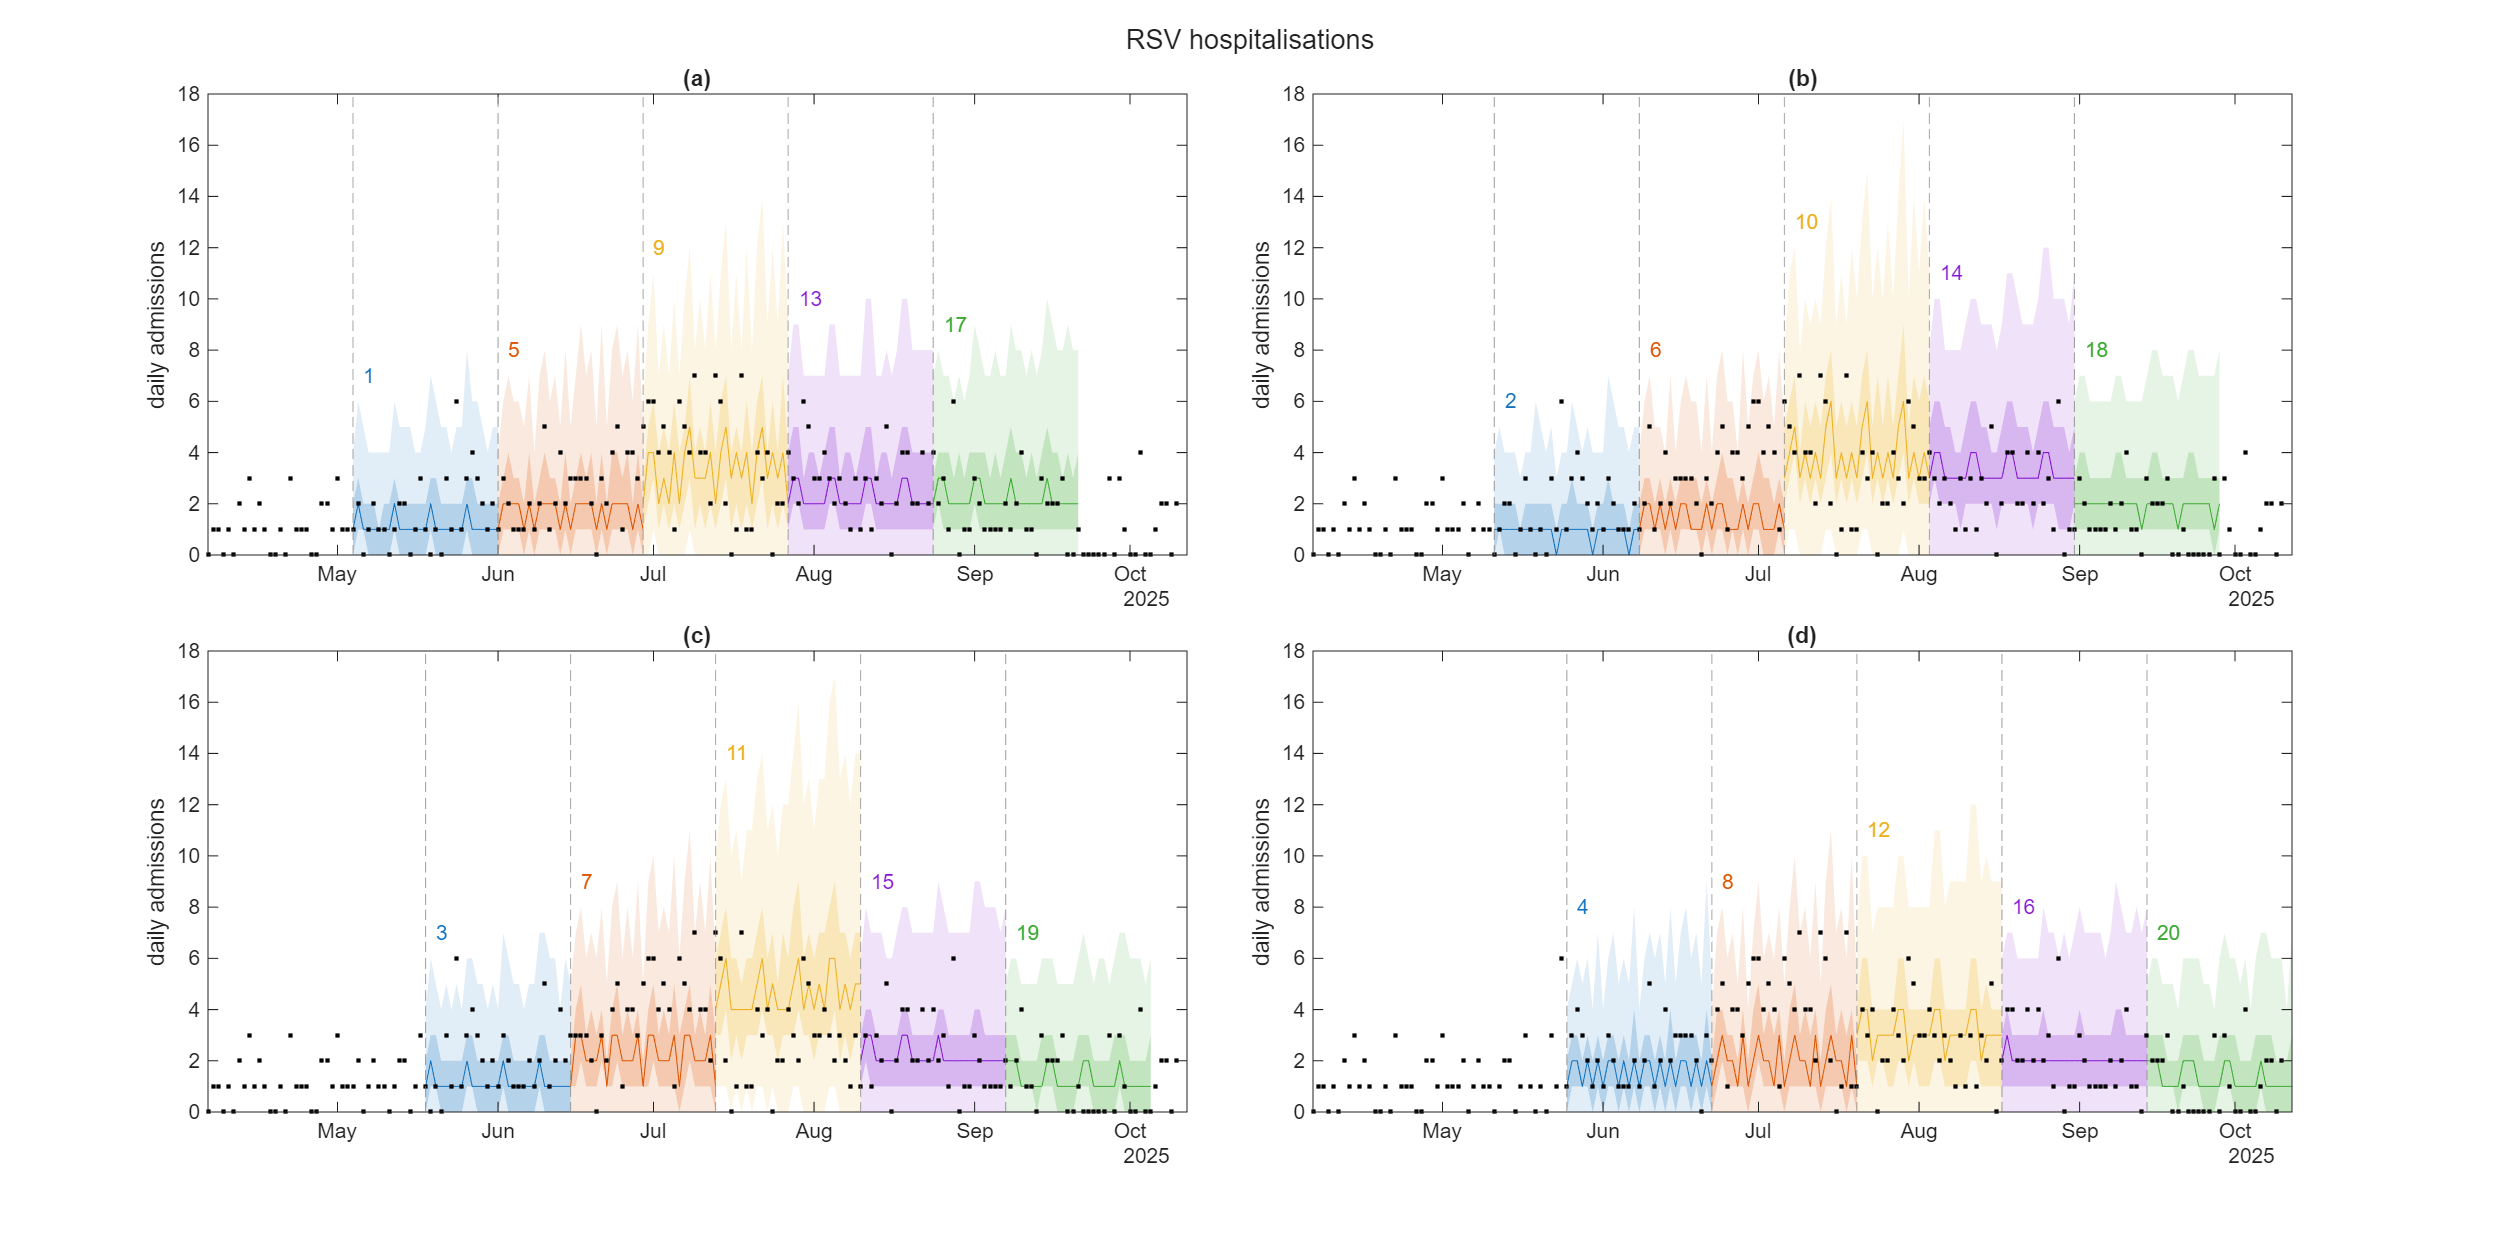
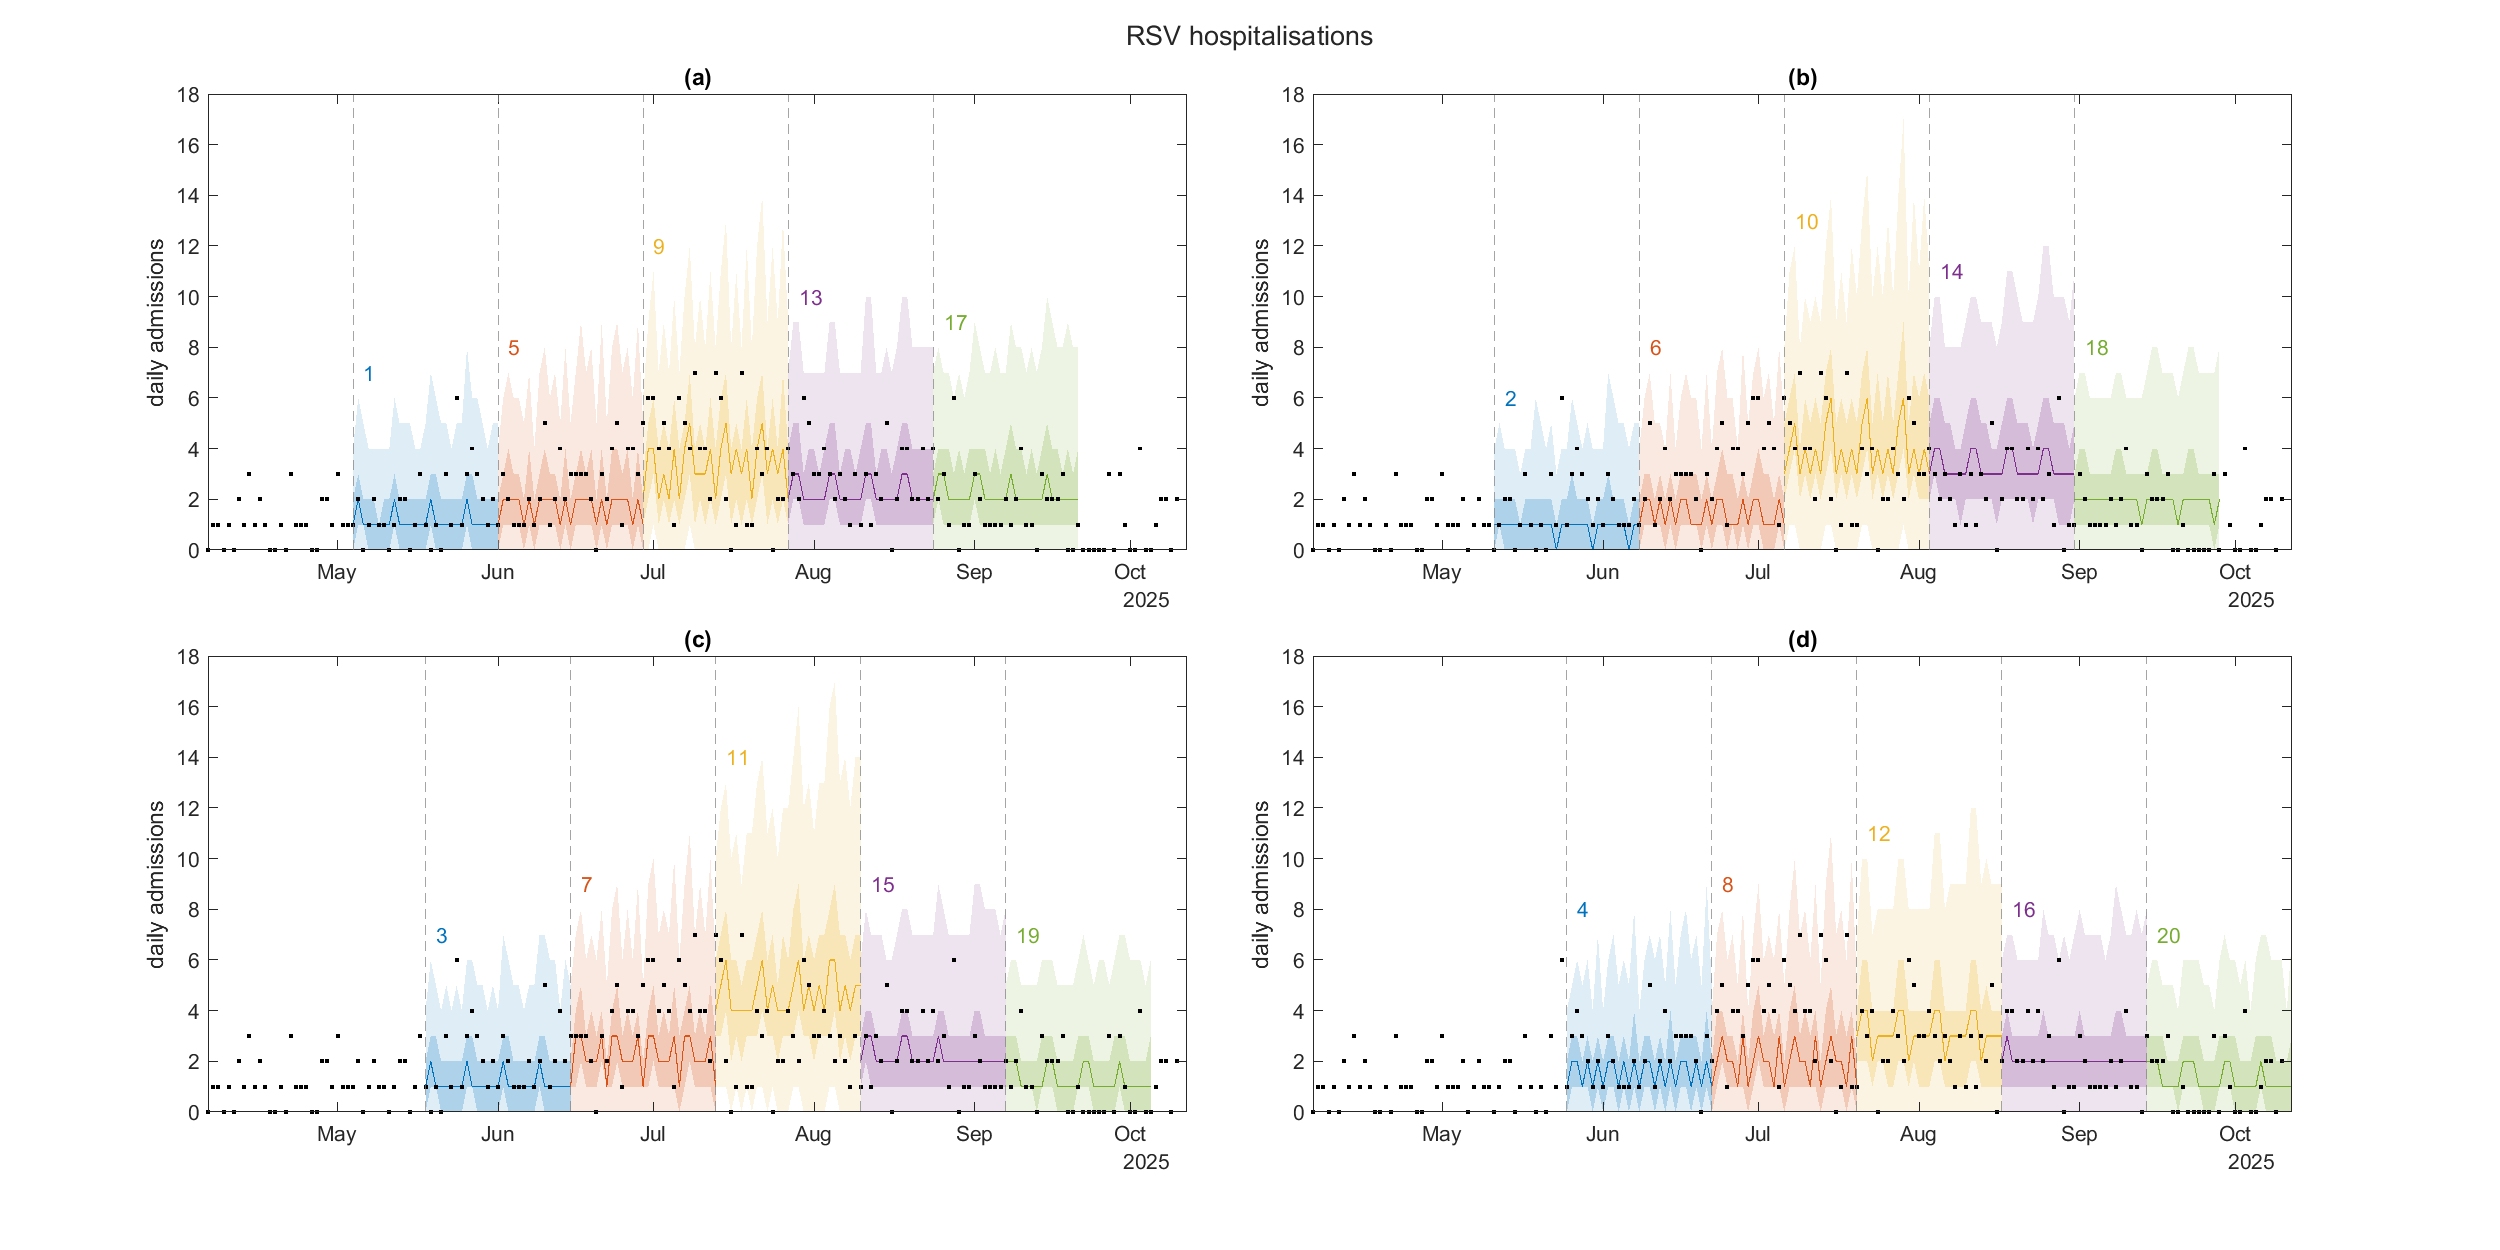
Updated plots and added coverage results

diff --git a/forecasting_code/plotRetrosepctive.m b/forecasting_code/plotRetrosepctive.m
@@ -76,11 +76,20 @@ vertGap = [2 2 1];
 date_info = getDateInfo(fileNames, fileDates(end));
 
 nPathogens = length(pathogen_name);
+
+nDataPoints_cases = zeros(nPathogens, 1);
+nDataPoints_hosp = zeros(nPathogens, 1);
+nIn50_cases = zeros(nPathogens, 1);
+nIn50_hosp = zeros(nPathogens, 1);
+nIn95_cases = zeros(nPathogens, 1);
+nIn95_hosp = zeros(nPathogens, 1);
+
+
 for iPathogen = 1:nPathogens
     %%%%%%%%%%%%%%%%%%%%%%%%%%%%%%%%%%%%%%%%%%%%%%%%%%%%%%%%%%%%%%%%%%%%%
     % Get last origin date
     %%%%%%%%%%%%%%%%%%%%%%%%%%%%%%%%%%%%%%%%%%%%%%%%%%%%%%%%%%%%%%%%%%%%% 
-
+    
     % Get pathogen specific data input settings
     [fileNames.cases, fileNames.hosp, test_types, useHospAsCases, pathogen_name_full] = getPathogenInputSettings(location_name, pathogen_name(iPathogen));
 
@@ -111,6 +120,11 @@ for iPathogen = 1:nPathogens
         % data as 'training' data (for plotting)
         [~, tData, nCases, nHosp] = getTrainingData(processed, max(processed.date), par.maxTimeBack, par.caseIgnoreDays, par.hospIgnoreDays);
     
+        in50_cases = nan(1, length(tData));
+        in50_hosp = nan(1, length(tData));
+        in95_cases = nan(1, length(tData));
+        in95_hosp = nan(1, length(tData));
+
         % Calculate 7 day moving average of cases
         nCasesSmoothed = smoothdata(nCases, 'movmean', 7);
         nHospSmoothed = smoothdata(nHosp, 'movmean', 7);  
@@ -196,6 +210,14 @@ for iPathogen = 1:nPathogens
         % Plot forecast
         myModelPlot(results(iOrigin).t, y, clrs(iCol, :));
 
+        % Record some coverage statistics for this round
+        ind = results(iOrigin).t > origins(iOrigin) & results(iOrigin).t <= origins(iOrigin)+28 & results(iOrigin).t <= max(tData);
+        ind2 = ismember(tData, results(iOrigin).t(ind));
+        nDataPoints_cases(iPathogen) = nDataPoints_cases(iPathogen) + sum(ind2);
+        nIn95_cases(iPathogen) = nIn95_cases(iPathogen) + sum( nCases(ind2) >= y(1, ind) & nCases(ind2) <= y(end, ind) );
+        nIn50_cases(iPathogen) = nIn50_cases(iPathogen) + sum( nCases(ind2) >= y(2, ind) & nCases(ind2) <= y(end-1, ind) );
+
+
         % Annotate with origin date and round number
         xline(origins(iOrigin), '--', 'color', greyCol);
         text(origins(iOrigin)+2, max(y(end, 1:7))+vertGap(iPathogen), string(iOrigin), 'Color', clrs(iCol, :));
@@ -271,7 +293,15 @@ for iPathogen = 1:nPathogens
 
             % Plot forecast
             myModelPlot(results(iOrigin).t, y, clrs(iCol, :));
-            
+
+            % Record some coverage statistics for this round
+            ind = results(iOrigin).t > origins(iOrigin) & results(iOrigin).t <= origins(iOrigin)+28 & results(iOrigin).t <= max(tData);
+            ind2 = ismember(tData, results(iOrigin).t(ind));
+
+            nDataPoints_hosp(iPathogen) = nDataPoints_hosp(iPathogen) + sum(ind2);
+            nIn95_hosp(iPathogen) = nIn95_hosp(iPathogen) + sum( nHosp(ind2) >= y(1, ind) & nHosp(ind2) <= y(end, ind) );
+            nIn50_hosp(iPathogen) = nIn50_hosp(iPathogen) + sum( nHosp(ind2) >= y(2, ind) & nHosp(ind2) <= y(end-1, ind) );
+
             % Annotate with origin date and round number       
             xline(origins(iOrigin), '--', 'color', greyCol)
             text(origins(iOrigin)+2, max(y(end, 1:7))+vertGap(iPathogen), string(iOrigin), 'Color', clrs(iCol, :))
@@ -331,8 +361,9 @@ for iPathogen = 1:nPathogens
     if ~useHospAsCases
         ttl = ttl + " cases";
     else
-        ttl = ttl + " hospitalisations";
+        ttl = ttl + " hosp";
     end
+    ttl = ttl + sprintf(' (mean CRPS %.2f)', mean(nanmean(scoreCases, 1)));
     title(ttl);
     if ~useHospAsCases   
         iTileScore = iTileScore+1;
@@ -342,13 +373,39 @@ for iPathogen = 1:nPathogens
         grid on
         xlabel('time horizon (days)')
         ylabel('mean CRPS')
-        ttl = letters(iTileScore) + " " + pathogen_title + " hospitalisations";
+        ttl = letters(iTileScore) + " " + pathogen_title + " hosp";
+        ttl = ttl + sprintf(' (mean CRPS %.2f)', mean(nanmean(scoreHosp, 1)));
         title(ttl);
     end
+
 end
 
 fName = "scores.png";
 saveas(h, fileNames.figureFolder+fName);
+
+
+% Make a table with coverage summary statistics
+p95_cases = 100*nIn95_cases./nDataPoints_cases;
+p50_cases = 100*nIn50_cases./nDataPoints_cases;
+p95_hosp = 100*nIn95_hosp./nDataPoints_hosp;
+p50_hosp = 100*nIn50_hosp./nDataPoints_hosp;
+tbl.Target = ["SARS-CoV-2 cases"; "SARS-CoV-2 hospitalisations"; "Influenza hospitalisations"; "RSV hospitalisations"];
+tbl.Coverage50pc = [p50_cases(1); p50_hosp(1); p50_cases(2:3)];
+tbl.Coverage95pc = [p95_cases(1); p95_hosp(1); p95_cases(2:3)];
+tbl = struct2table(tbl);
+
+% Save table as LaTeX code
+fName = 'coverage.tex';
+nRows = height(tbl);
+
+fid = fopen(fileNames.figureFolder+fName, 'w');
+for iRow = 1:nRows
+    z = table2cell(tbl(iRow, :));
+    fprintf(fid, '%s & %.1f\\%% & %.1f\\%% \\\\ \n', z{:});
+end
+fprintf(fid, '\\hline\n');
+fclose(fid);
+
 
 
 % Create a separate figure with the first panel from each of Figures 1-4

diff --git a/retrospective_figures/coverage.tex b/retrospective_figures/coverage.tex
@@ -1,0 +1,5 @@
+SARS-CoV-2 cases & 60.9\% & 99.5\% \\ 
+SARS-CoV-2 hospitalisations & 61.1\% & 97.7\% \\ 
+Influenza hospitalisations & 62.7\% & 99.6\% \\ 
+RSV hospitalisations & 68.5\% & 98.2\% \\ 
+\hline
